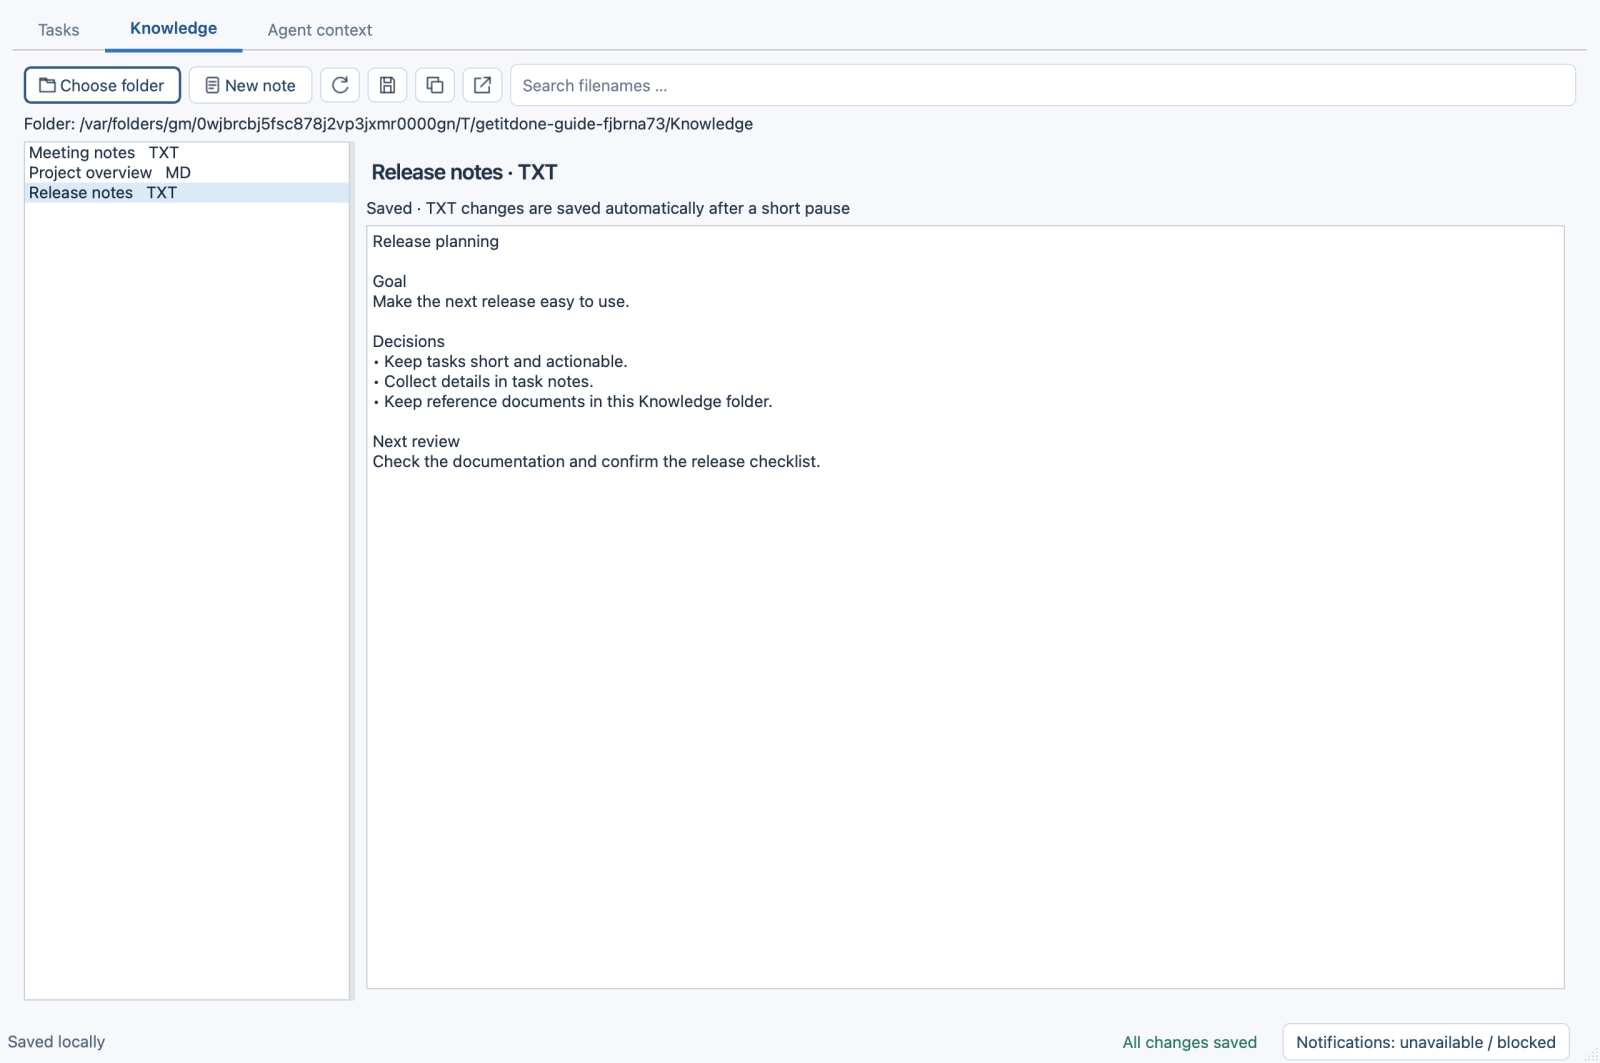
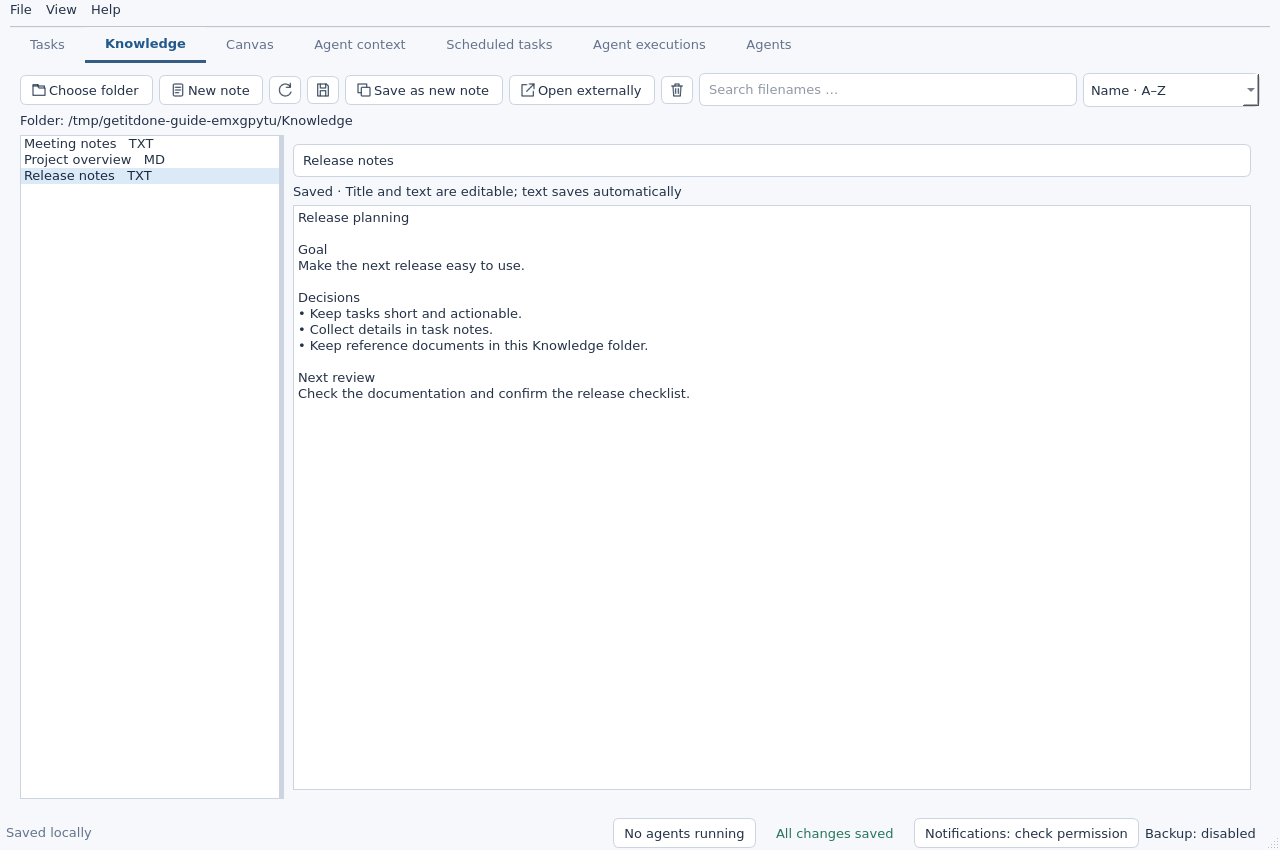
docs: refresh README feature screenshots

diff --git a/scripts/capture_readme.py b/scripts/capture_readme.py
@@ -43,16 +43,29 @@ def capture_guide():
         parent = book.add("Prepare the next release")
         book.update(parent["id"], category_id=category["id"], notes="Collect feedback from the team.\nCheck the documentation before publishing.")
         child = book.add("Review the user guide", parent=parent["id"])
-        book.update(child["id"], reminder={"at": "2026-10-28T09:00:00+01:00", "notified_at": None})
+        book.update(child["id"], reminder={"at": "2030-10-28T09:00:00+01:00", "notified_at": None})
         book.add("Capture screenshots", parent=child["id"])
         book.add("Test the new task workflow", parent=parent["id"])
         book.add("Plan next week's priorities")
         book.add("Collect ideas for the next milestone")
+        canvas = store.folder / "canvas"
+        canvas.mkdir(parents=True, exist_ok=True)
+        (canvas / "canvas.html").write_text('''<!doctype html><html><head><meta charset="utf-8"><style>
+body{font:16px system-ui;background:#f2f5f9;color:#23364c;margin:0;padding:48px}
+main{max-width:960px;margin:auto} h1{font-size:38px;margin-bottom:6px} p{color:#5a6b7c}
+.grid{display:flex;gap:18px;margin-top:32px}.card{background:white;border-radius:14px;padding:24px;flex:1;box-shadow:0 4px 20px #21314a12}
+.tag{font-size:13px;color:#5079a4;font-weight:700} h2{font-size:20px} li{margin:12px 0;line-height:1.5}
+</style></head><body><main><span class="tag">PROJECT WORKSPACE · EXAMPLE</span>
+<h1>Release planning</h1><p>A simple Canvas built with local HTML and CSS.</p><div class="grid">
+<section class="card"><span class="tag">THIS WEEK</span><h2>Priorities</h2><ul><li>Review the user guide</li><li>Capture fresh screenshots</li><li>Test the release workflow</li></ul></section>
+<section class="card"><span class="tag">NEXT UP</span><h2>Ideas &amp; notes</h2><ul><li>Collect team feedback</li><li>Polish the onboarding experience</li><li>Plan the next milestone</li></ul></section>
+</div></main></body></html>''', encoding="utf-8")
         window = Window(store, book.data)
         window.resize(1280, 850)
         window.show()
         window.vertical.setSizes([550, 180])
         window.timer.stop()
+        window.tasks.set_all_expanded(True)
         QTest.qWait(650)
 
         def save(widget, name):
@@ -68,11 +81,12 @@ def capture_guide():
         save(palette, "colors.png")
         palette.close()
         reminder = ReminderDialog(book.get(child["id"]), window)
-        reminder.when.setDateTime(QDateTime.fromString("2026-10-28T09:00:00+01:00", Qt.ISODate))
+        reminder.when.setDateTime(QDateTime.fromString("2030-10-28T09:00:00+01:00", Qt.ISODate))
         reminder.show()
         save(reminder, "reminder.png")
         reminder.close()
         window.workspace.setCurrentIndex(1)
+        QTest.qWait(1500)  # Lazy tab initialization and asynchronous folder discovery.
         files = window.knowledge.files
         for index in range(files.count()):
             if files.item(index).text().startswith("Release notes"):
@@ -82,6 +96,9 @@ def capture_guide():
         QTest.qWait(800)
         assert window.knowledge.document is not None
         save(window, "knowledge.png")
+        window.workspace.setCurrentIndex(2)
+        QTest.qWait(2000)
+        save(window, "canvas.png")
         window.workspace.setCurrentIndex(0)
         terminal = Terminal(window)
         window.tabs.addTab(terminal, "Demo shell · no agent running")

diff --git a/README.md b/README.md
@@ -4,9 +4,39 @@
 
 GetItDone is your local work notebook for macOS and Windows. Break tasks into smaller steps, add notes and reminders, and keep reference documents close at hand. Your tasks and knowledge files stay on your computer. The notebook requires no account; connected coding agents need their own installation and sign-in.
 
-![Tasks with subtasks, notes, pastel colors, and the full-width Add item button](docs/images/tasks.png)
+[Install & launch with `gid`](#installation-by-a-coding-agent-including-gid) · [First steps](#getting-started) · [User guide](#editing-and-organizing-tasks) · [Development](docs/DEVELOPMENT.md)
 
-The screenshots show the macOS interface with example data.
+## See GetItDone in action
+
+These screenshots were captured from the current app on Linux with **disposable example data**. The interface can look different on macOS and Windows. Linux desktop support is experimental.
+
+### Tasks, notes and reminders
+
+Organize work into nested tasks, add notes and colors, search or filter, and set reminders. Changes are saved locally.
+
+![Example tasks with nested subtasks, a note, a color and a reminder](docs/images/tasks.png)
+
+### Knowledge
+
+Keep local notes and reference documents at hand. Edit TXT and Markdown, or view PDF and Word documents.
+
+![Knowledge tab with example documents and an editable release note](docs/images/knowledge.png)
+
+### Coding agents, alongside your work
+
+Open an integrated terminal for a task, link or resume sessions, and inspect discovered agent context. OpenCode, Codex, Claude Code and pi are installed and authenticated separately.
+
+![Example task list with an integrated terminal](docs/images/terminals.png)
+
+*The screenshot uses a local demo shell; no AI agent is running.*
+
+### Canvas
+
+Turn a local HTML page into your own workspace; an agent can help edit it. The example below is custom content, not a built-in dashboard template.
+
+![Canvas displaying a mock release planning dashboard](docs/images/canvas.png)
+
+Scheduled agent tasks, execution history, optional startup and backups round out the notebook. Schedules, reminders and backups run while GetItDone is running, including when hidden in the tray.
 
 **File → Settings → Appearance** lets you switch between Light and the
 Everforest dark theme. Save to apply it immediately to menus, dialogs, task colors
@@ -282,8 +312,6 @@ Some Windows source installations report “Element not found” when querying n
 
 The **Knowledge** tab works with files from a local folder.
 
-![Knowledge with a file list on the left and an open text note on the right](docs/images/knowledge.png)
-
 1. Click **Choose folder** and select your knowledge folder.
 2. Select a file on the left. Use the search field to filter filenames.
 3. Click **New note** to create a text note. Its title becomes the filename.
@@ -314,10 +342,6 @@ You can use **OpenCode, Codex, Claude Code, or pi** in integrated terminals. Ins
 The linked session appears below the task. **Resume** opens its running terminal or resumes the saved session when its session ID is available. The note icon (**Last reply**) opens the latest captured assistant text directly from the notebook, without starting the agent. Replies and their unread state survive app restarts; a later reply replaces the previous one. Click **New agent message** in the status column to read it. New replies observed while the app is inactive can send a system notification. Initial history imports are quiet. Codex, Claude and pi replies are read from exact local session histories; OpenCode uses its local API. Custom profiles have no automatic reply capture. Missing histories or unavailable APIs preserve the previously saved reply.
 
 The info icon opens details such as the working folder and session ID. If an older session has no ID, it can only be resumed once the ID has been found or entered in its details.
-
-![Tasks above an integrated terminal, with copy, paste, maximize, and pop-out controls](docs/images/terminals.png)
-
-*This screenshot uses a local demo shell. No coding agent is running.*
 
 The toolbar above the terminals provides these controls, from left to right:
 
@@ -353,7 +377,7 @@ From any tab (or a popped-out terminal), **Command+T** on macOS / **Ctrl+T** on 
 
 Use the expand/collapse icon beside the task filter to expand or collapse everything. New tasks start **collapsed**. Individual expansion states and full-title/note visibility save immediately. Expanded items contain a **+** row for adding children; the entire row is clickable. Collapsed parents occupy one row. Opening a note expands its task so the editor is immediately visible.
 
-The fourth tab, **Scheduled tasks**, manages one-time and recurring agent runs. Choose the prompt, agent, working folder, local date/time and an interval in minutes, hours, days, weeks or months. Use **+ New scheduled task** below the schedule list to create a job. Each schedule shows its state, next date and run count. Select it to edit, run now, pause or delete it. The **Run history** table lists every execution with its number, local start/end times, duration and status, alongside total/success/failure counts. Select any run to read or copy its own saved output below. Task details show the current prompt/folder; **Run details** shows the original prompt/folder used for that execution. Reading output does not start the agent. **Schedule again** opens the date editor for a finished one-time job. Codex replies are displayed as text; select **Raw process output** for diagnostics. Each run retains the last 1 MB of output locally, including across restarts. Ordinary interactive terminal output still remains in memory only.
+The **Scheduled tasks** tab manages one-time and recurring agent runs. Choose the prompt, agent, working folder, local date/time and an interval in minutes, hours, days, weeks or months. Use **+ New scheduled task** below the schedule list to create a job. Each schedule shows its state, next date and run count. Select it to edit, run now, pause or delete it. The **Run history** table lists every execution with its number, local start/end times, duration and status, alongside total/success/failure counts. Select any run to read or copy its own saved output below. Task details show the current prompt/folder; **Run details** shows the original prompt/folder used for that execution. Reading output does not start the agent. **Schedule again** opens the date editor for a finished one-time job. Codex replies are displayed as text; select **Raw process output** for diagnostics. Each run retains the last 1 MB of output locally, including across restarts. Ordinary interactive terminal output still remains in memory only.
 
 Schedules run while GetItDone is open, including when hidden in the menu bar or tray. After reopening, a missed schedule runs once; recurring schedules advance to the next future date without replaying every missed occurrence. A run interrupted by an app crash is marked accordingly and is not automatically repeated. Sign in to the selected agent CLI first. Custom profiles must supply noninteractive arguments; their prompt is appended as one argument. Runs use the CLI's configured permissions and may fail if an interactive permission request is required.
 
